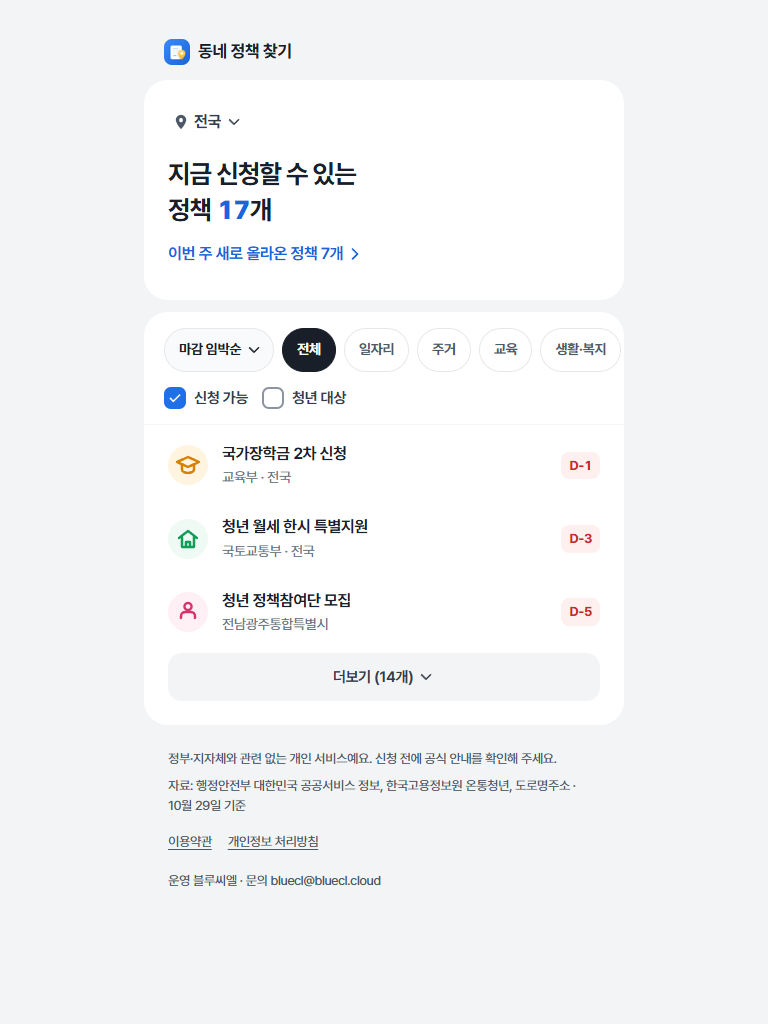
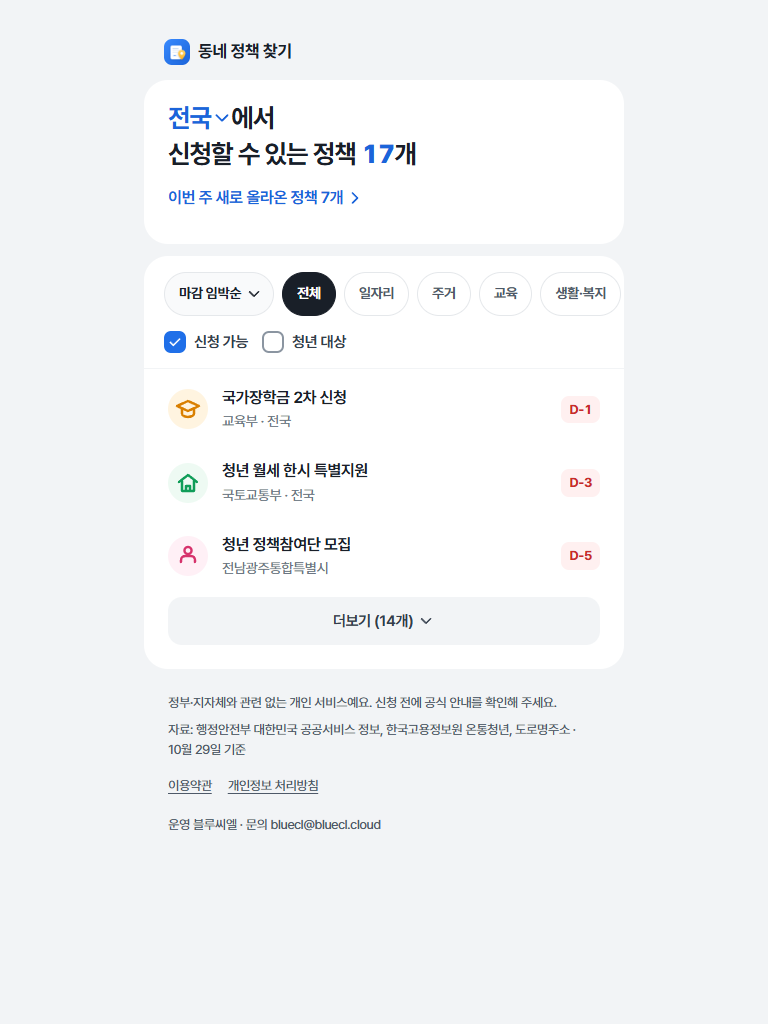
[Docs] 제목 문장형 지역 선택 스크린샷과 배포 기록 갱신

diff --git a/README.md b/README.md
@@ -24,8 +24,8 @@ systemd 타이머(주 1회) → scripts/build-regions.ts → 도로명주소 API
   - 인천 중구·동구 → 제물포구·영종구, 서구 → 서해구·검단구
   - 화성시 일반구(만세·효행·병점·동탄)
 - **옛 코드 처리**: 정책 데이터에 남은 옛 코드(29·46 → 12, 42 → 51, 45 → 52, 인천 28110 등)를 지금 지역으로 바꿔요.
-- **화면 배치**: 꼭 필요한 문구만 둬요. `tests/browser/audit.spec.ts`가 기준을 재요. 기준은 접힘선(375×812에서 지역 버튼과 첫 정책이 보임), 대비 4.5:1, 터치 44px, 가로 넘침 없음, 조건 칩 한 줄, 정렬·조건이 목록 카드 안, 지역 고르기를 재촉하는 문구 없음이에요.
-  - 첫 화면: 지역 버튼("전국" ▾) → 지금 신청할 수 있는 정책 N개 → "이번 주 새로 올라온 정책 N개 ›"(누르면 최근 등록순).
+- **화면 배치**: 꼭 필요한 문구만 둬요. `tests/browser/audit.spec.ts`가 기준을 재요. 기준은 접힘선(375×812에서 제목 속 지역 버튼과 첫 정책이 보임), 대비 4.5:1, 터치 44px, 가로 넘침 없음, 조건 칩 한 줄, 정렬·조건이 목록 카드 안, 지역 고르기를 재촉하는 문구 없음이에요.
+  - 첫 화면: 제목 문장 안에 지역이 있어요. "[전국 ▾]에서 / 신청할 수 있는 정책 N개" → "이번 주 새로 올라온 정책 N개 ›"(누르면 최근 등록순). 지역 글자는 파란색과 ▾로 누를 수 있음을 알려요.
   - 지역은 고르지 않아도 돼요. 지역 버튼 하나를 누르면 시·도 목록이 나오고, 시·도를 누르면 같은 시트에서 그 시·도의 시·군·구가 나와요. 다시 열면 고른 시·도의 시·군·구 목록부터 보여요. 토스 뒤로 가기는 시·군·구 → 시·도 → 닫기 순서예요.
   - 목록 카드: [정렬 ▾][전체][분야…] 칩 한 줄 → 조건(신청 가능·청년 대상·우리 지역만) → 정책 3개 → 더보기.
   - 고른 지역은 기기에만 저장하고 서버로 보내지 않아요.
@@ -77,7 +77,7 @@ npx ait deploy -m "<대표 커밋 메시지>"
 
 ## 배포 (BlueCL)
 
-현재 서버 릴리스 `policy-20261029014842`(2026-10-29 설치), 앱 번들 deploymentId `01a1855d-42f5-78f7-88ba-603258adc669`. 정부 혜택 9,933건 수집 중(온통청년은 운영 승인 대기).
+현재 서버 릴리스 `policy-20261029014842`(2026-10-29 설치), 앱 번들 deploymentId `01a18568-3418-7635-8c5b-22b92127b1d0`. 정부 혜택 9,933건 수집 중(온통청년은 운영 승인 대기).
 
 `/home/solty/dev/policy/{releases,current,node,data,.env}`, API 포트 `18826`, 공개 경로 `https://bluecl.cloud/policy/api/`. Node는 gongmodu와 같은 `node` 링크(v24)를 써요.
 
